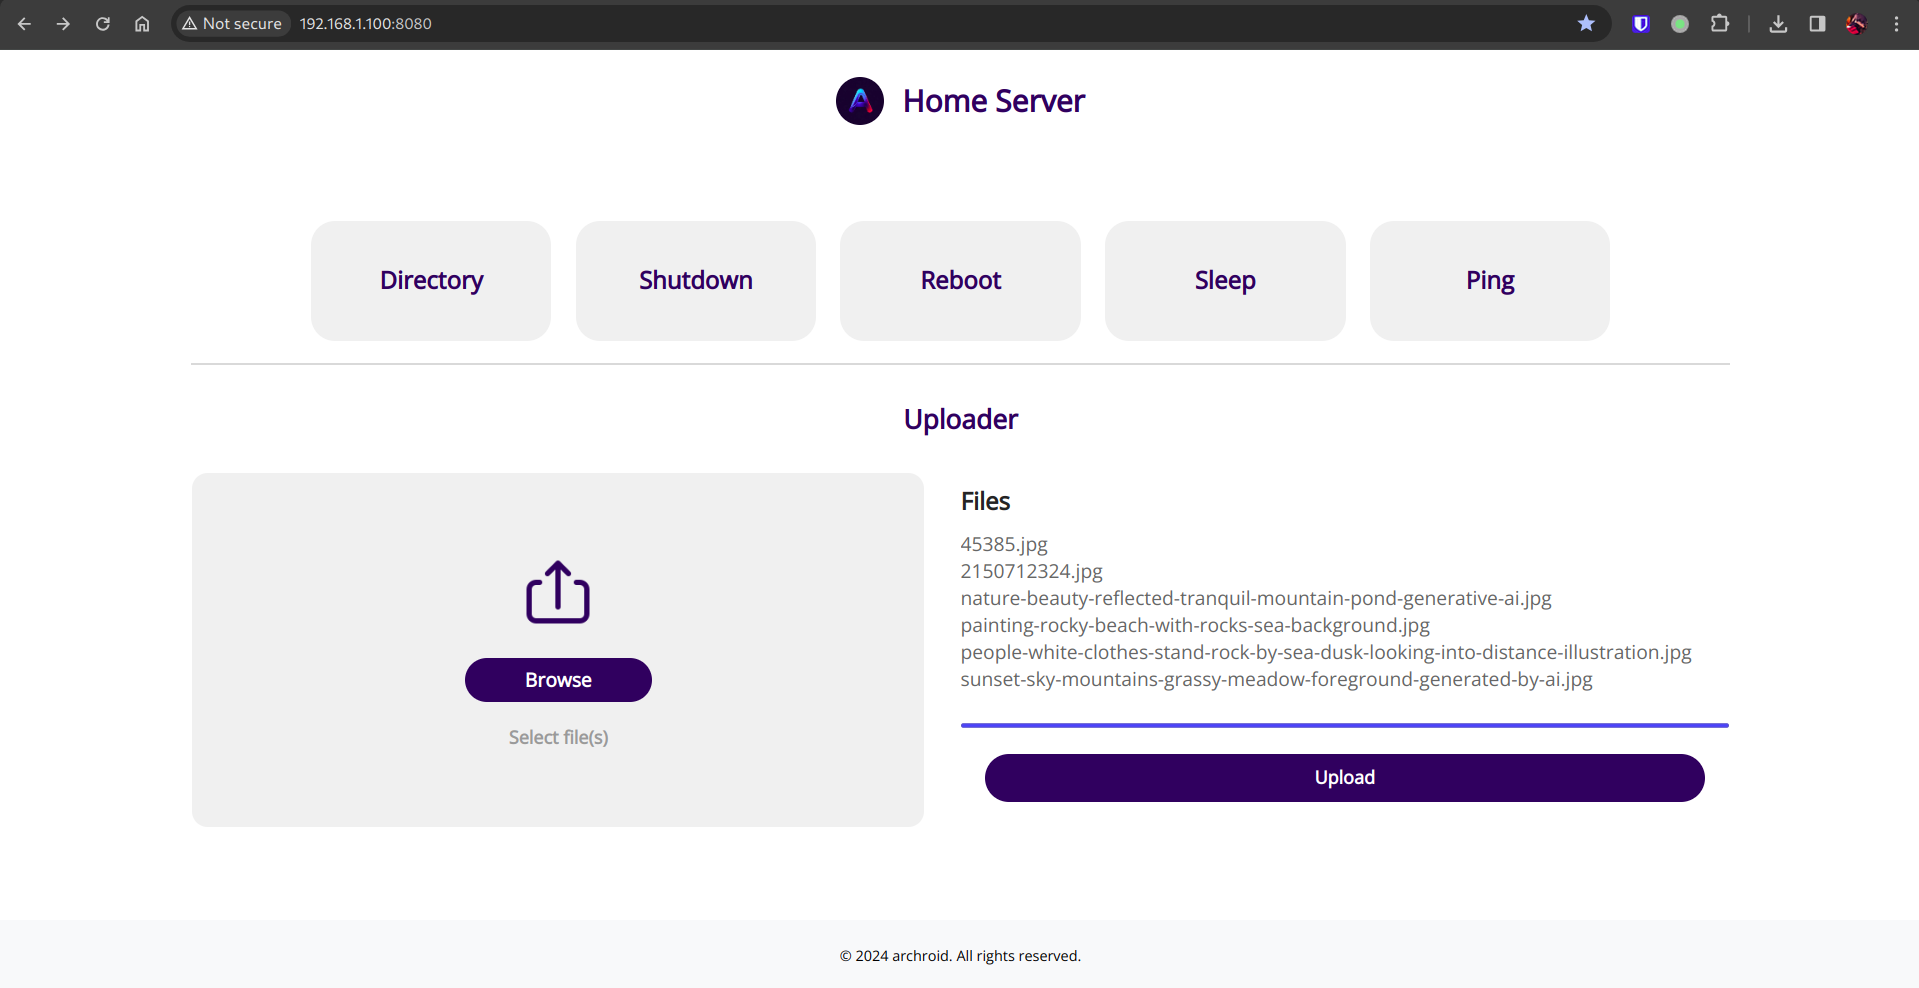
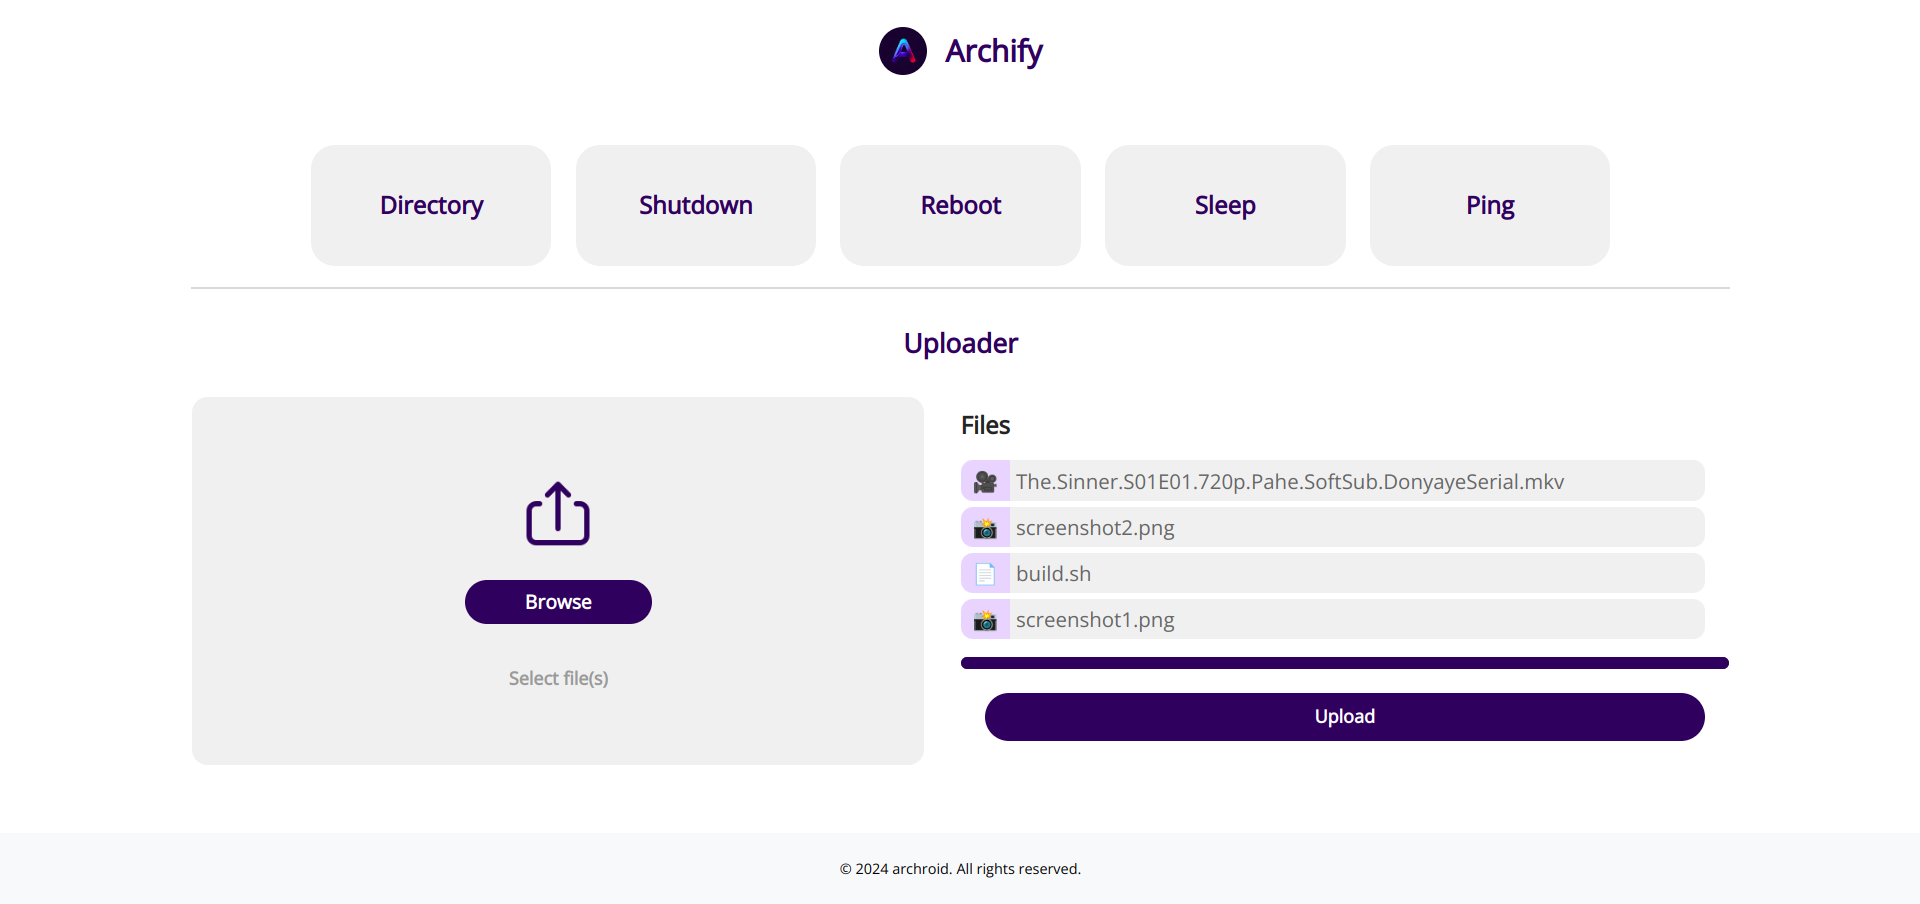
updated project name to archify, updated screenshots, fixed minor ui issues

diff --git a/templates/index.html b/templates/index.html
@@ -8,14 +8,14 @@
      <meta name="viewport" content="width=device-width, initial-scale=1">
      <link rel="stylesheet" type="text/css" href="/static/index.css">
      <script src="/static/index.js"></script>
-     <title>Home Server</title>
+     <title>Homchroid</title>
 </head>
 
 
 <body>
      <div class="top-bar">
-          <img src="/static/icon.jpeg" alt="Your Image" class="top-bar-image">
-          <p class="top-bar-text"> Home Server </p>
+          <img src="/static/icon.jpeg" class="top-bar-image" onclick="opengithub()">
+          <p class="top-bar-text" onclick="opengithub()"> Archify </p>
      </div>
      <main>
 

diff --git a/static/index.js b/static/index.js
@@ -48,3 +48,9 @@ function sleep() {
           });
 }
 
+
+
+function opengithub() {
+     window.location.href = "https://github.com/archroid/archify"
+}
+

diff --git a/static/index.css b/static/index.css
@@ -285,6 +285,7 @@
 
      .progresstion-bar {
           visibility: hidden;
+          margin-top: 10px;
      }
 
      progress {

diff --git a/templates/directory.html b/templates/directory.html
@@ -295,4 +295,5 @@
         window.location.href = window.location.origin;
     }
 
+
 </script>

diff --git a/main.go b/main.go
@@ -23,9 +23,8 @@ var homePath string
 var showHiddenFiles = false
 
 func main() {
-
 	//ASCII art on startup
-	myFigure := figure.NewColorFigure("Home Serve", "", "blue", true)
+	myFigure := figure.NewColorFigure("ARCHIFY", "", "blue", true)
 	myFigure.Print()
 
 	fmt.Println("")
